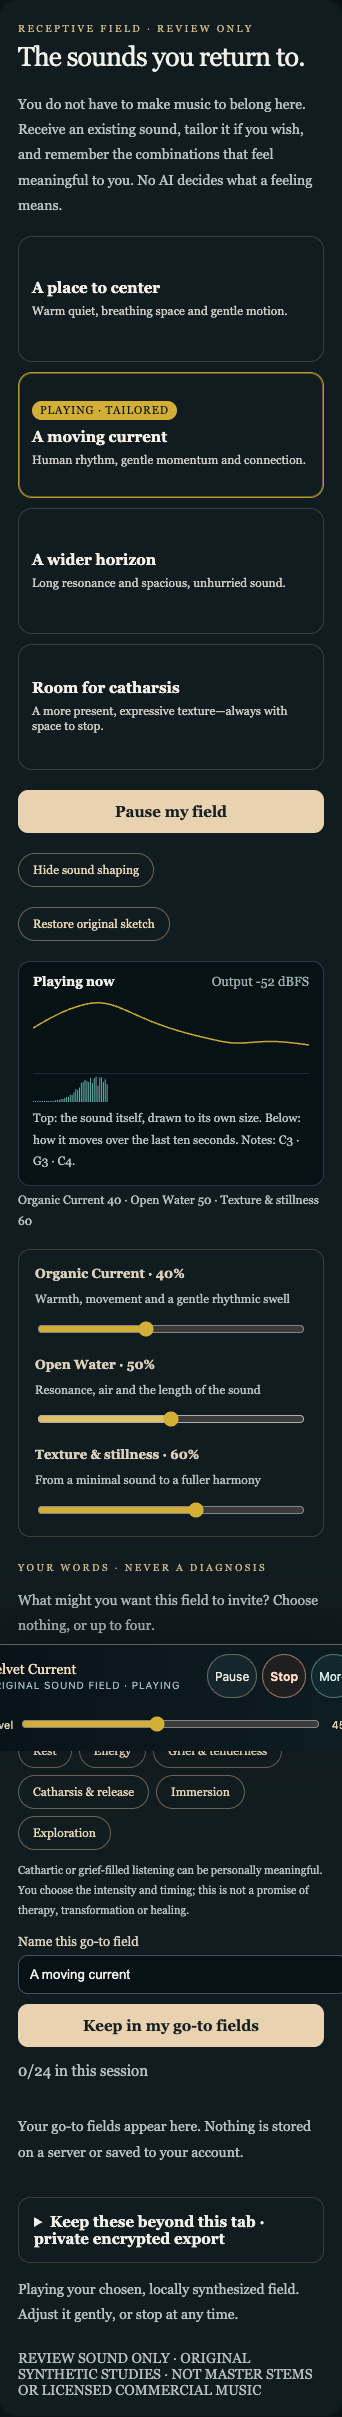
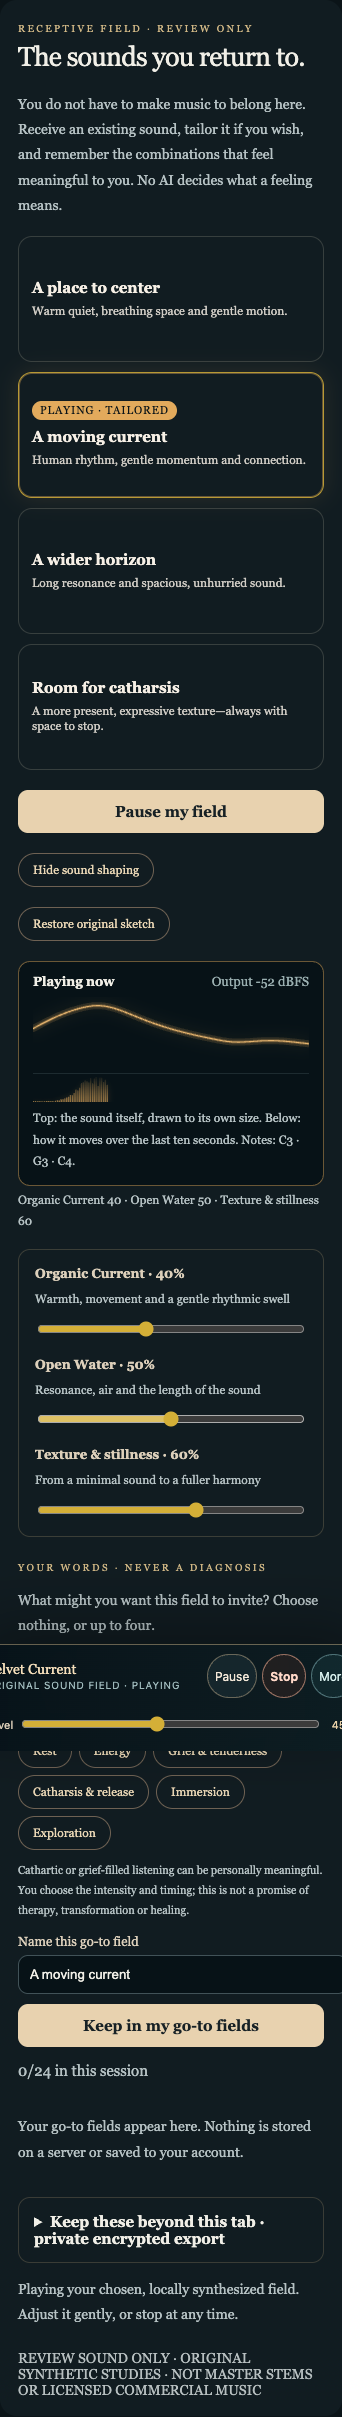
feat(listen): soft lines and each field's own colour in the Shelf live view
The waveform is drawn as a blurred halo under a thin line, and the movement
bars fade upward, so the view is softer and less severe. Each card has its
own colour (lavender, amber, sea, rose), used for its highlight and its live
view; with no card chosen the view stays gold. Adds a local founder harness
for the Shelf with the real player.

Founder requests 2026-11-19 on #1979.

Changed region(s): [[0.0877, 0.1552, 0.5263, 0.1862], [0.2047, 0.4344, 0.3216, 0.4655]]

diff --git a/app/listen/ReceptiveFieldDesk.tsx b/app/listen/ReceptiveFieldDesk.tsx
@@ -35,14 +35,25 @@ export function noteName(hz:number):string {
 }
 
 type Output = { analyser: AnalyserNode; frequencies: number[]; mood: string };
+type Tint = readonly [number, number, number];
+/** Each field's own colour, beside the house gold (founder, 2026-11-19). Gold when no card is chosen. */
+export const FIELD_TINTS: Record<string, Tint> = {
+  settle: [167, 160, 214],  // A place to center: lavender
+  warmth: [226, 170, 92],   // A moving current: amber
+  open: [110, 190, 200],    // A wider horizon: sea
+  release: [214, 130, 130], // Room for catharsis: rose
+};
+const GOLD: Tint = [212, 175, 55];
+const rgba = (t: Tint, a: number) => `rgba(${t[0]},${t[1]},${t[2]},${a})`;
 
 /** What the field is doing right now: its waveform, its movement over the last seconds, and its level. */
-function LiveField({ getOutput, playing, paused }:{ getOutput:()=>Output|null; playing:boolean; paused:boolean }) {
+function LiveField({ getOutput, playing, paused, tint }:{ getOutput:()=>Output|null; playing:boolean; paused:boolean; tint:Tint }) {
   const wave=useRef<HTMLCanvasElement>(null);
   const motion=useRef<HTMLCanvasElement>(null);
   const [level,setLevel]=useState<number|null>(null);
   const [notes,setNotes]=useState<number[]>([]);
   const getRef=useRef(getOutput); getRef.current=getOutput;
+  const tintRef=useRef(tint); tintRef.current=tint;
   useEffect(()=>{
     const history:number[]=[];
     let raf=0, last=0, lastHist=0;
@@ -54,29 +65,47 @@ function LiveField({ getOutput, playing, paused }:{ getOutput:()=>Output|null; p
       for(const c of [w,m]){const cw=Math.round(c.clientWidth*dpr),ch=Math.round(c.clientHeight*dpr);if(c.width!==cw||c.height!==ch){c.width=cw;c.height=ch;}}
       const g=w.getContext('2d'), h=m.getContext('2d'); if(!g||!h) return;
       g.clearRect(0,0,w.width,w.height);
-      g.strokeStyle='rgba(212,175,55,.95)'; g.lineWidth=1.5*dpr; g.beginPath();
+      // Soft rather than severe (founder, 2026-11-19): a blurred halo under a thin, slightly translucent line.
+      const line=new Path2D();
       let rms=0;
       if(out){
         const data=new Float32Array(out.analyser.fftSize); out.analyser.getFloatTimeDomainData(data);
         let peak=0; for(const v of data){rms+=v*v; if(Math.abs(v)>peak)peak=Math.abs(v);} rms=Math.sqrt(rms/data.length);
-        // Drawn to the field's own size so a quiet field is still visible; the level bar shows how loud it really is.
-        const scale=(w.height*0.42)/Math.max(peak,1e-4);
+        // Drawn to the field's own size so a quiet field is still visible; the level shows how loud it really is.
+        const scale=(w.height*0.38)/Math.max(peak,1e-4);
         const shown=Math.min(data.length,1024);
-        for(let i=0;i<shown;i++){const x=(i/(shown-1))*w.width,y=w.height/2-data[i]*scale;i?g.lineTo(x,y):g.moveTo(x,y);}
+        for(let i=0;i<shown;i++){const x=(i/(shown-1))*w.width,y=w.height/2-data[i]*scale;i?line.lineTo(x,y):line.moveTo(x,y);}
         if(now-last>200){last=now;setNotes(old=>old.join()===out.frequencies.join()?old:out.frequencies);}
-      } else { g.moveTo(0,w.height/2); g.lineTo(w.width,w.height/2); }
-      g.stroke();
+      } else { line.moveTo(0,w.height/2); line.lineTo(w.width,w.height/2); }
+      const t=tintRef.current;
+      g.lineJoin='round'; g.lineCap='round';
+      g.save();
+      g.shadowColor=rgba(t,.55); g.shadowBlur=14*dpr;
+      g.strokeStyle=rgba(t,.16); g.lineWidth=7*dpr; g.stroke(line);
+      g.restore();
+      g.strokeStyle=rgba(t,.32); g.lineWidth=3*dpr; g.stroke(line);
+      g.strokeStyle=rgba([Math.min(255,t[0]+30),Math.min(255,t[1]+30),Math.min(255,t[2]+30)],.8); g.lineWidth=1.1*dpr; g.stroke(line);
       if(now-lastHist>66){lastHist=now;history.push(rms); if(history.length>150)history.shift();}
       h.clearRect(0,0,m.width,m.height);
       const top=Math.max(...history,1e-4);
-      h.fillStyle='rgba(127,209,200,.8)';
-      history.forEach((v,i)=>{const bar=Math.max(1,(v/top)*m.height*0.9);h.fillRect((i/150)*m.width,m.height-bar,Math.max(1,m.width/150-1),bar);});
+      const fade=h.createLinearGradient(0,0,0,m.height);
+      fade.addColorStop(0,rgba(t,0)); fade.addColorStop(1,rgba(t,.6));
+      h.save(); h.fillStyle=fade; h.shadowColor=rgba(t,.45); h.shadowBlur=6*dpr;
+      const step=m.width/150, r=Math.min(step*0.45,3*dpr);
+      history.forEach((v,i)=>{
+        const bar=Math.max(1,(v/top)*m.height*0.9), x=i*step, bw=Math.max(1,step*0.7);
+        h.beginPath();
+        if(typeof h.roundRect==='function') h.roundRect(x,m.height-bar,bw,bar,[r,r,0,0]); else h.rect(x,m.height-bar,bw,bar);
+        h.fill();
+      });
+      h.restore();
       setLevel(old=>{const db=rms>0?Math.round(20*Math.log10(rms)):null;return old===db?old:db;});
     };
     raf=requestAnimationFrame(draw);
     return ()=>cancelAnimationFrame(raf);
   },[playing]);
-  return <div className={styles.liveField} data-listen23-live="true" data-live-state={playing?'playing':paused?'paused':'stopped'}>
+  return <div className={styles.liveField} data-listen23-live="true" data-live-state={playing?'playing':paused?'paused':'stopped'}
+    data-live-tint={tint.join(',')} style={{borderColor:playing?rgba(tint,.45):undefined}}>
     <div className={styles.liveFieldHead}>
       <strong>{playing?'Playing now':paused?'Paused':'Not playing'}</strong>
       <span data-live-level="true">{playing&&level!==null?`Output ${level} dBFS`:'Silent'}</span>
@@ -257,8 +286,8 @@ export default function ReceptiveFieldDesk({
           aria-pressed={chosenOption?.id===option.id}
           className={chosenOption?.id===option.id?`${styles.tile} ${styles.tileChosen}`:styles.tile}
           onClick={()=>chooseInvitation(option)}
-          style={{minHeight:120,textAlign:'left',display:'flex',flexDirection:'column',justifyContent:'center',gap:8}}>
-          {chosenOption?.id===option.id && <span className={styles.tileBadge} data-listen23-chosen="true">
+          style={{...(chosenOption?.id===option.id?{borderColor:rgba(FIELD_TINTS[option.id]??GOLD,.85),boxShadow:`0 0 0 1px ${rgba(FIELD_TINTS[option.id]??GOLD,.4)} inset, 0 0 22px ${rgba(FIELD_TINTS[option.id]??GOLD,.12)}`}:{}),minHeight:120,textAlign:'left',display:'flex',flexDirection:'column',justifyContent:'center',gap:8}}>
+          {chosenOption?.id===option.id && <span className={styles.tileBadge} data-listen23-chosen="true" style={{background:rgba(FIELD_TINTS[option.id]??GOLD,1)}}>
             {matchingSketch?'Playing':'Chosen'}{tailored?' · tailored':''}</span>}
           <strong>{option.title}</strong>
           <span style={{fontSize:12,opacity:.83}}>{option.explanation}</span>
@@ -282,7 +311,7 @@ export default function ReceptiveFieldDesk({
       </button>
     </div>
     {persistent?.generatedOutput && <LiveField getOutput={persistent.generatedOutput}
-      playing={!!matchingSketch} paused={!!pausedSketch}/>}
+      playing={!!matchingSketch} paused={!!pausedSketch} tint={(chosenOption&&FIELD_TINTS[chosenOption.id])||GOLD}/>}
     {(matchingSketch||pausedSketch) && <p className={styles.muted} style={{fontSize:12,marginTop:4}} data-live-settings="true">
       {dials.map(d=>`${d.label} ${shape[d.key]}`).join(' · ')}
     </p>}

diff --git a/docs/design/contracts/sound-studio-shelf.md b/docs/design/contracts/sound-studio-shelf.md
@@ -19,12 +19,12 @@ screenshot_desktop:
 screenshot_mobile:
   - docs/design/contracts/screenshots/sound-studio-shelf-live-mobile.png
 experience_verification: >
-  2026-11-19 isolated browser witness (tests/listening/shelf_live_view_browser_witness.cjs), 38/38: the real
+  2026-11-19 isolated browser witness (tests/listening/shelf_live_view_browser_witness.cjs), 40/40: the real
   ReceptiveFieldDesk inside the REAL PersistentListeningProvider, with their real stylesheets, in local Chrome at
   1440×1200 and 390×844. Before Play, the view says Not playing and no card is marked. Choosing a card marks only
   it. While playing, the card says Playing, the waveform moves, the real output level is shown, and the notes and
   settings appear. A different card shows different notes (G2 · D3 · G3 versus C3 · G3 · C4) and different
-  settings. Tailoring marks the card "tailored". Paused, the view says Paused and goes flat. An audio-graph edge
+  settings, each in the field's own colour. Tailoring marks the card "tailored". Paused, the view says Paused and goes flat. An audio-graph edge
   log shows the tap adds exactly one edge, master → analyser, that the analyser feeds nothing, and that only one
   path reaches the speakers. No overflow, no page errors and no outside requests. Measured in the same run: "A
   wider horizon" plays at about −53 to −55 dBFS RMS at the default level. The fixture mirrors the app shell's
@@ -40,6 +40,7 @@ A member wants to receive a generated sound field, shape it if they wish, and ke
 ## What the member can always rely on
 - **They can see that it is working.** While their field plays, a live view moves with the actual sound: the waveform itself, how it swells over the last ten seconds, and its real output level. Paused, it says so and goes flat.
 - **They can see what they are hearing.** The field's notes (for example G2 · D3 · G3) and its Organic Current, Open Water and Texture settings are shown, so different cards read differently.
+- **Each field has its own colour.** Lavender for A place to center, amber for A moving current, sea for A wider horizon, and rose for Room for catharsis. The chosen card and its live view take that colour; with no card chosen the view stays in house gold. The lines are soft, with a blurred halo under a thin line, rather than severe (founder, 2026-11-19).
 - **They know which card is sounding.** The chosen card is marked Chosen, then Playing, then "tailored" once a dial moves away from the card's own setting.
 - **Seeing changes nothing.** The view reads the one player's output through a tap that feeds nothing. It does not change the sound, its level or its notes, and it adds no control to the player bar.
 
